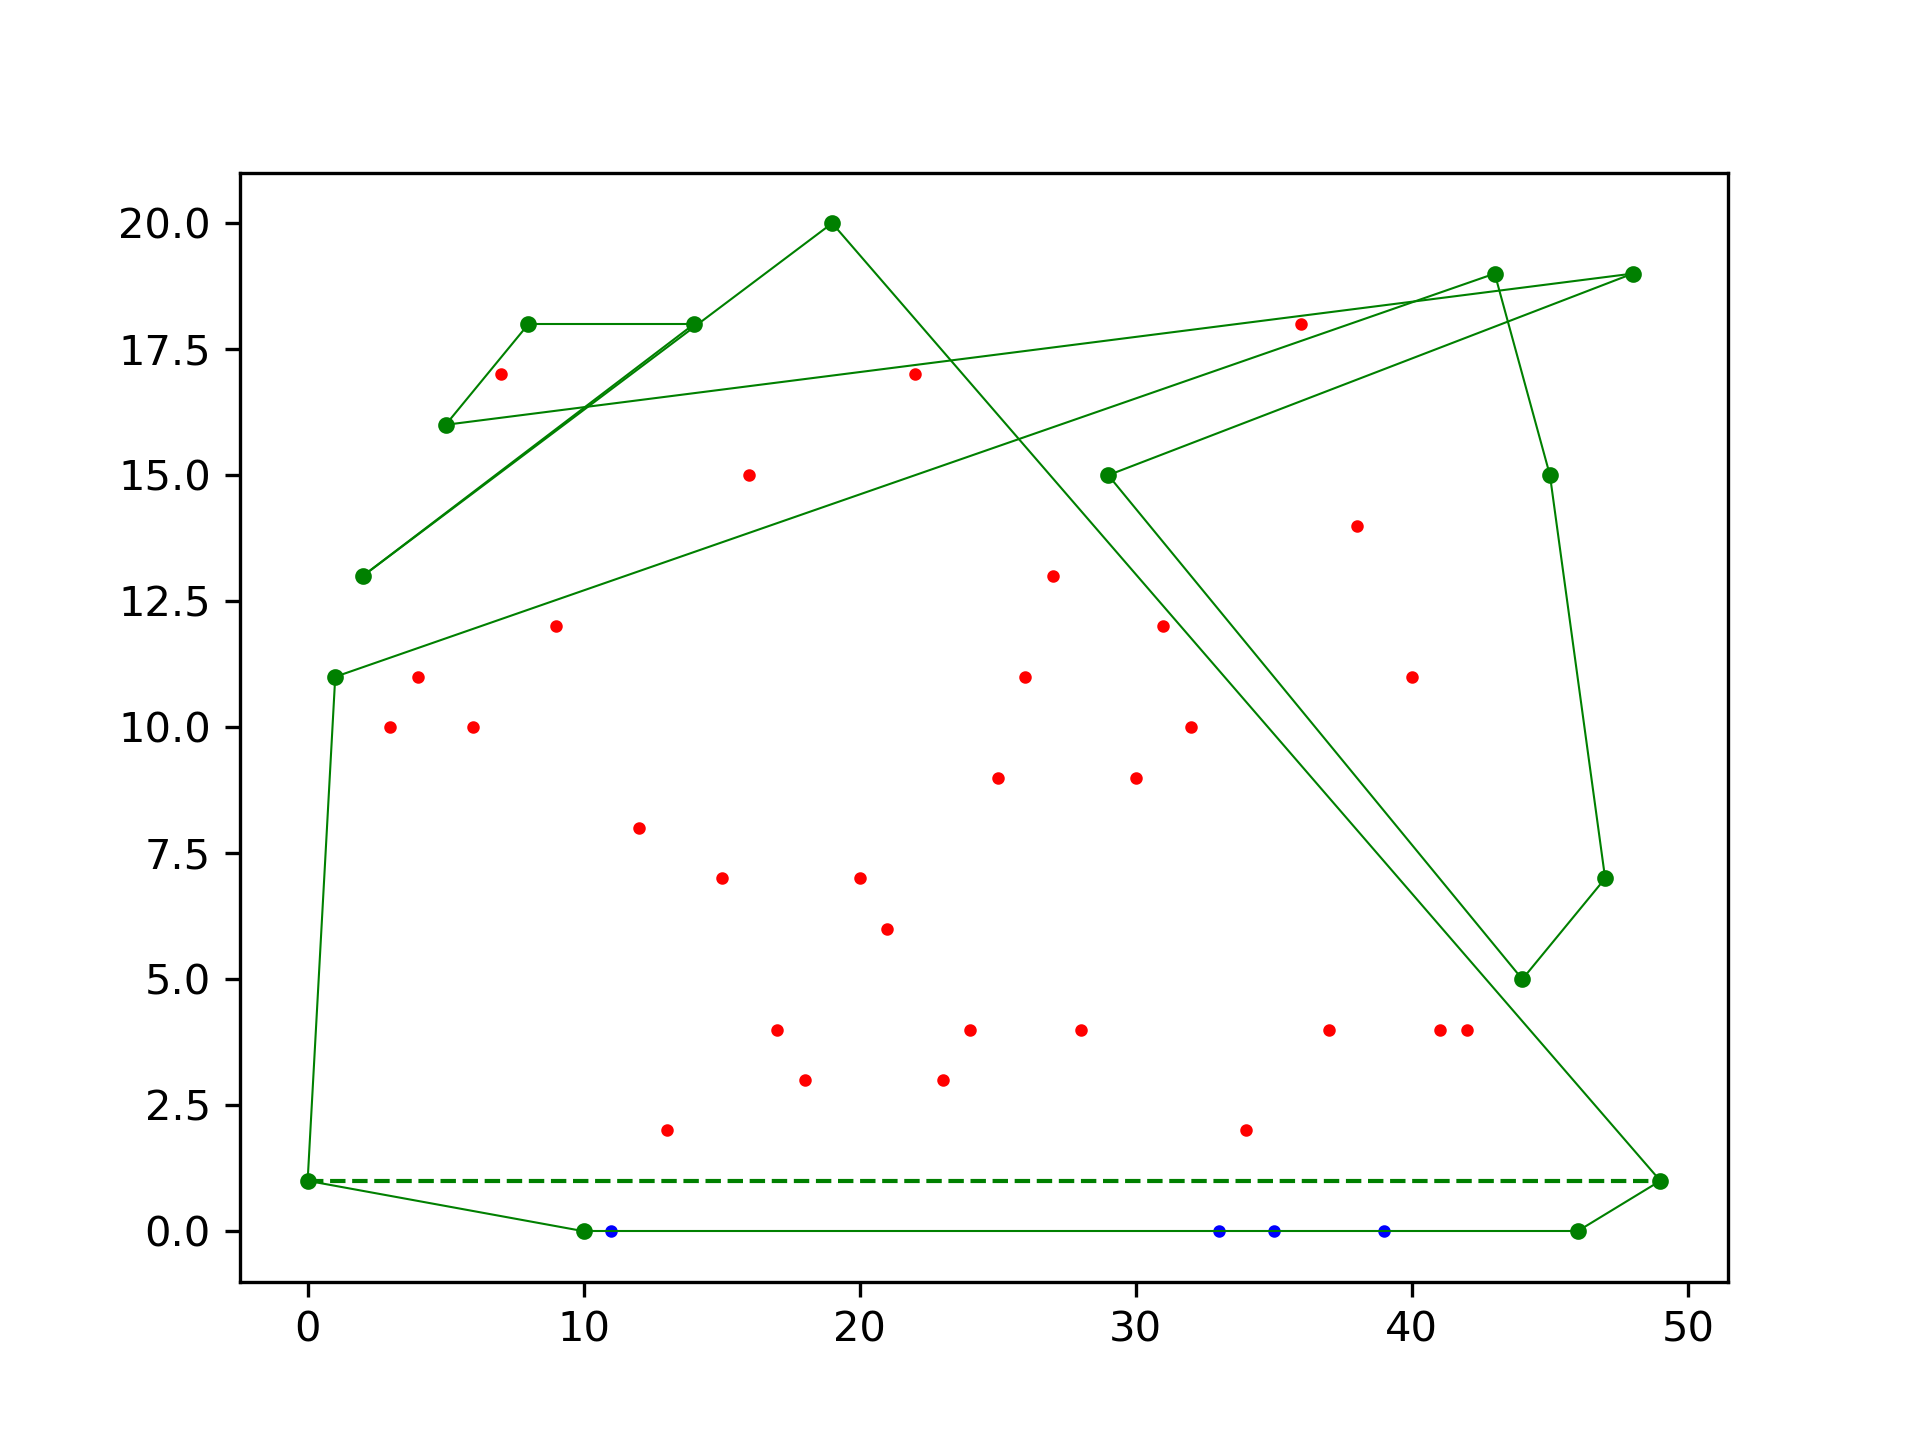
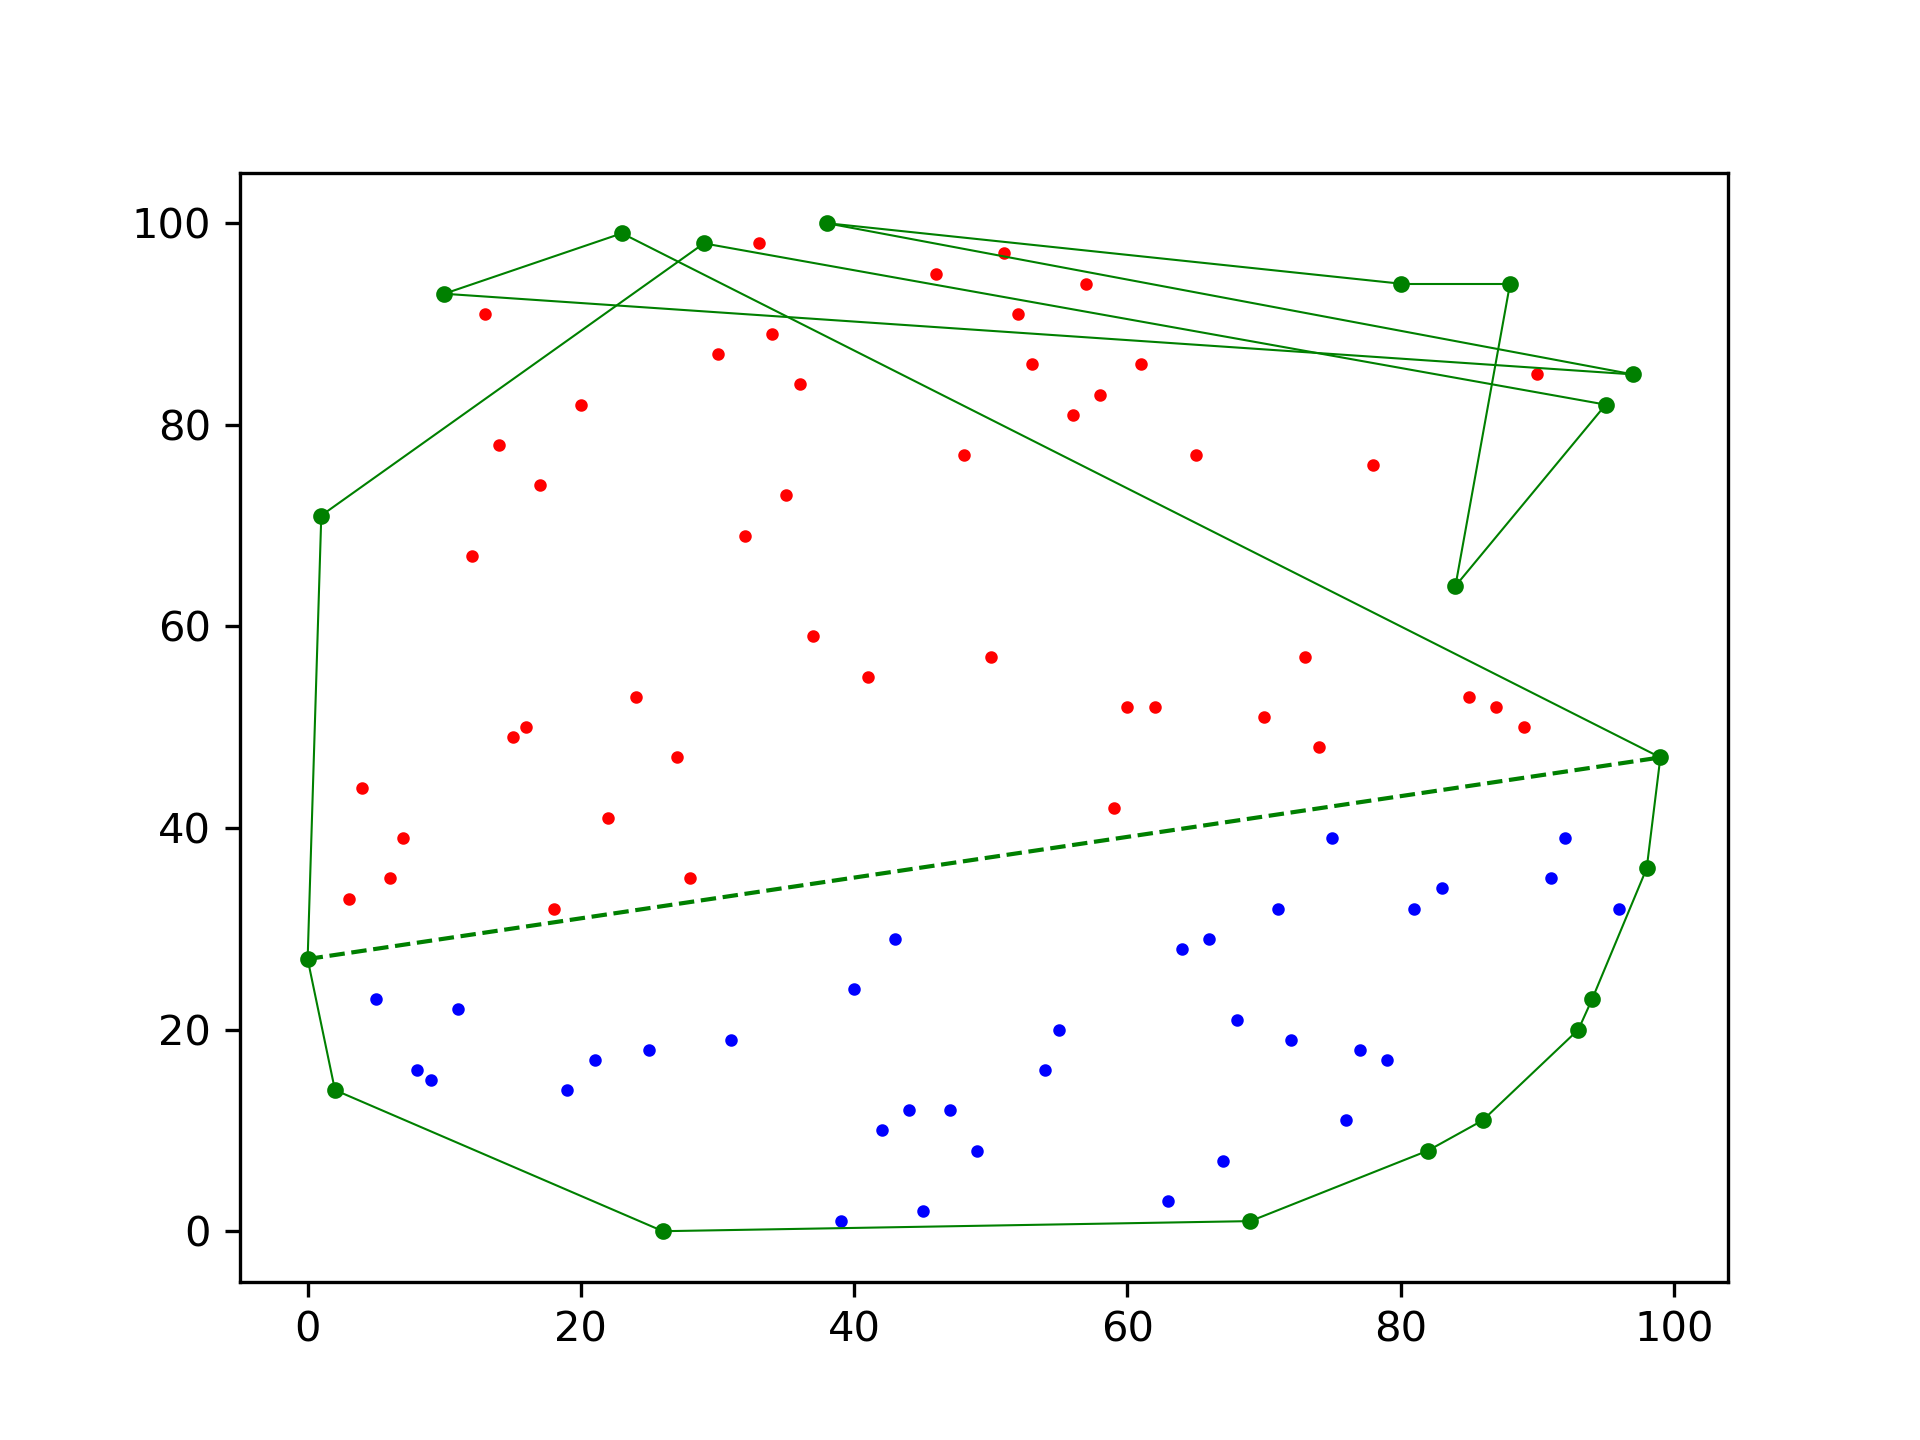
now you can call it with a passed integer and it will create that many dots

diff --git a/qh.py b/qh.py
@@ -7,9 +7,18 @@ import random
 import math
 from numpy import arccos, array, dot, pi, cross
 from numpy.linalg import det, norm
+import sys
 
 filename = 'plot'
 rand = random.seed()
+
+def is_int(s):
+    try: 
+        int(s)
+        return True
+    except ValueError:
+        return False
+#
 
 def drawline(p1, p2, style, width) :
 	plt.plot([p1.X,p2.X],[p1.Y,p2.Y], style, linewidth=width)
@@ -97,8 +106,12 @@ p = []
 convexhull = []
 convexhulltop = []
 
-for i in range(50) :
-	p.append(Point.Point(i,random.randint(0, 20), 'y'))
+size = 50
+if len(sys.argv) > 1 and is_int(sys.argv[1]) :
+	size = int(sys.argv[1])
+
+for i in range(size) :
+	p.append(Point.Point(i,random.randint(0, size), 'y'))
 
 convexhull.append(p[0])
 convexhull.append(p[len(p)-1])
